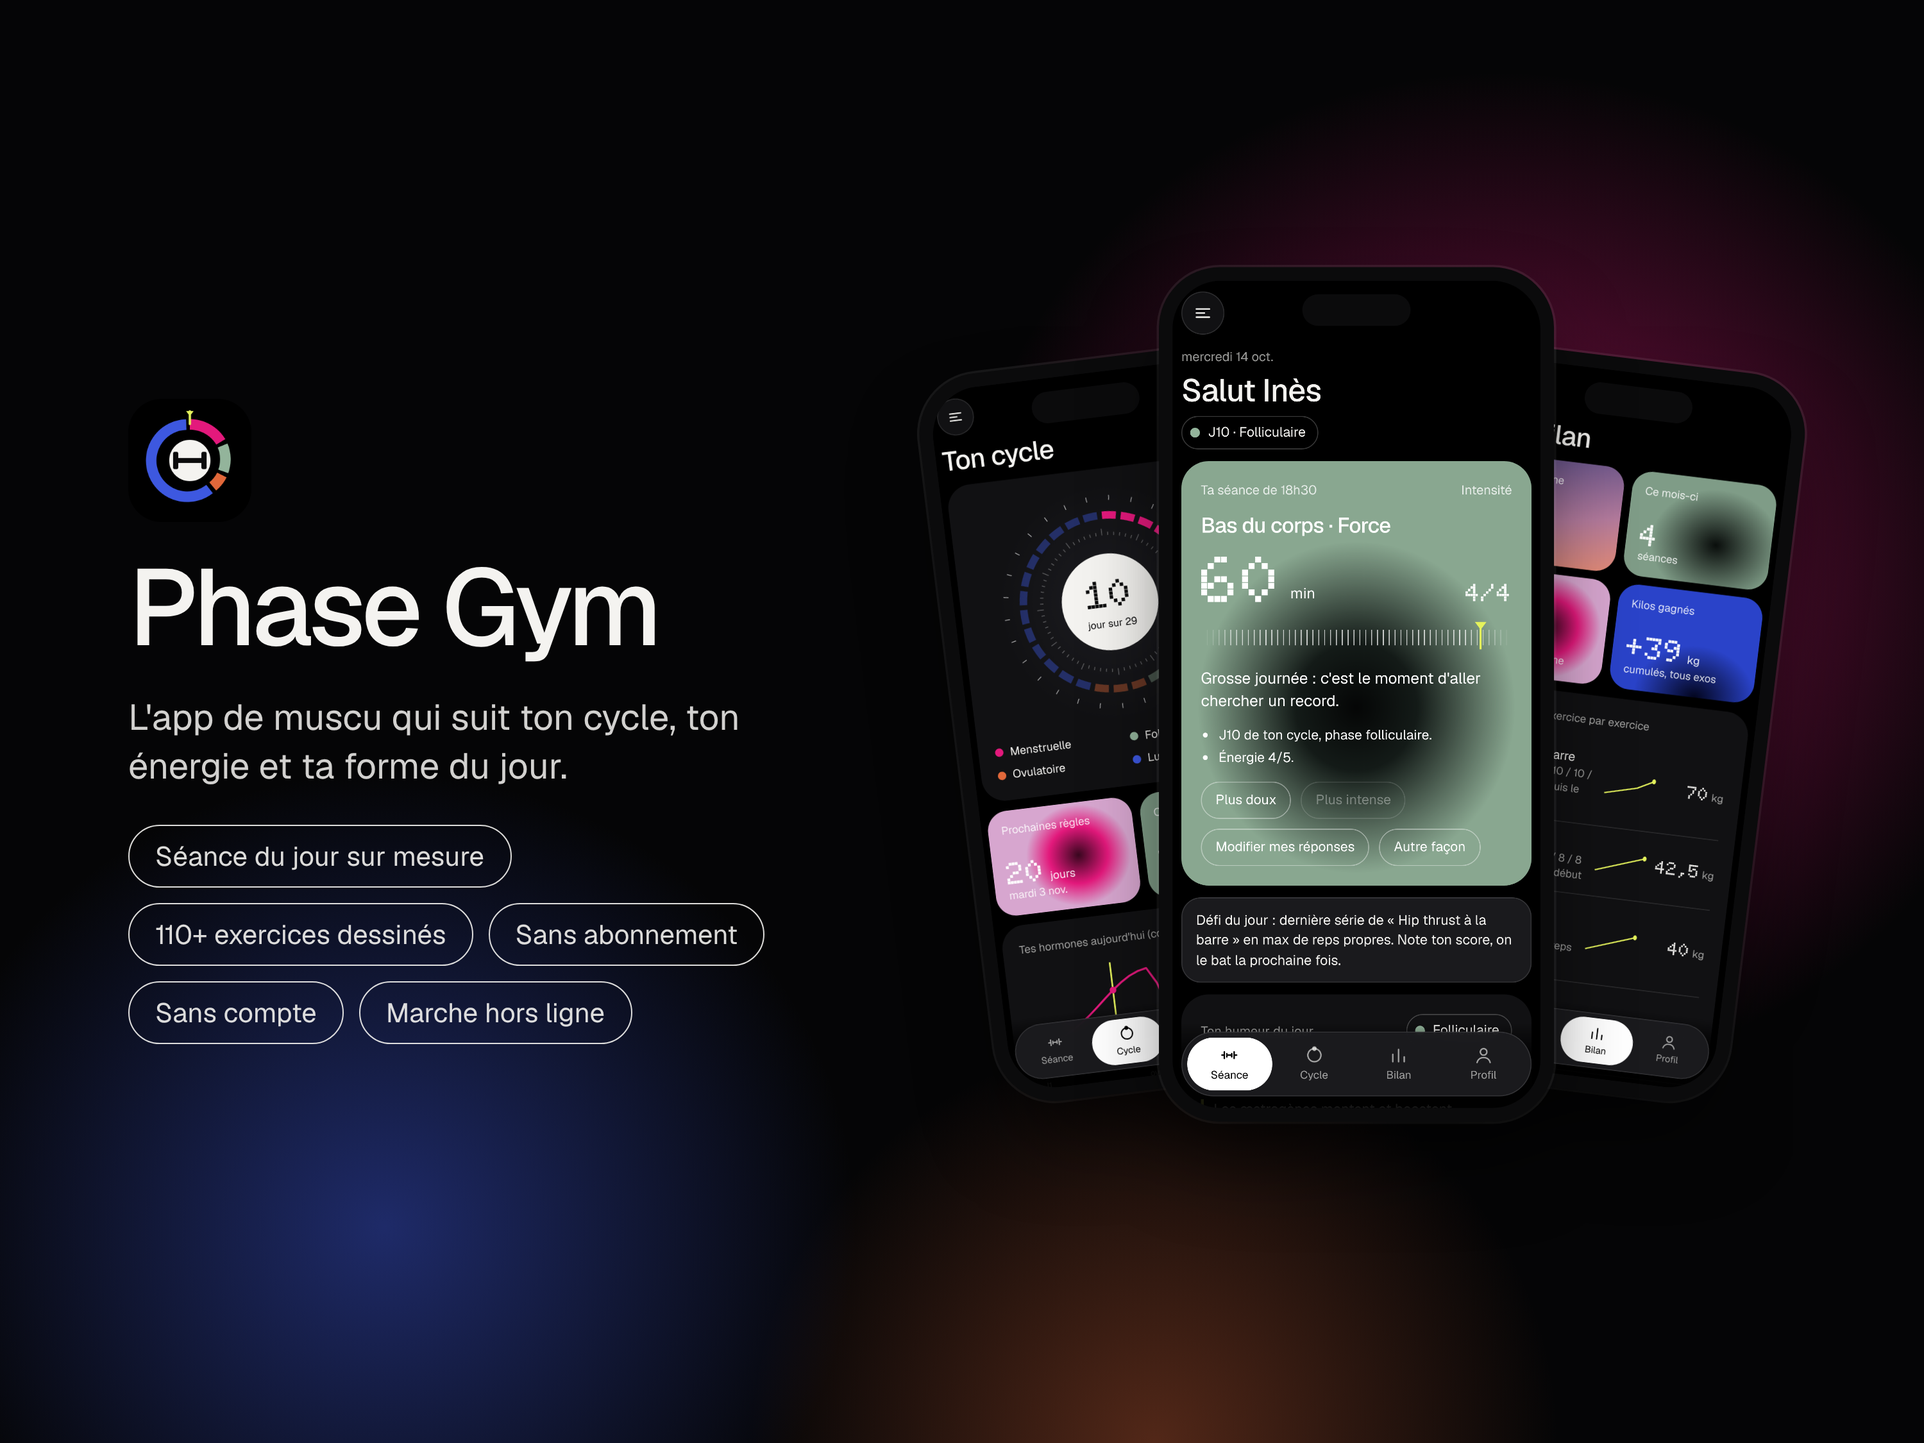
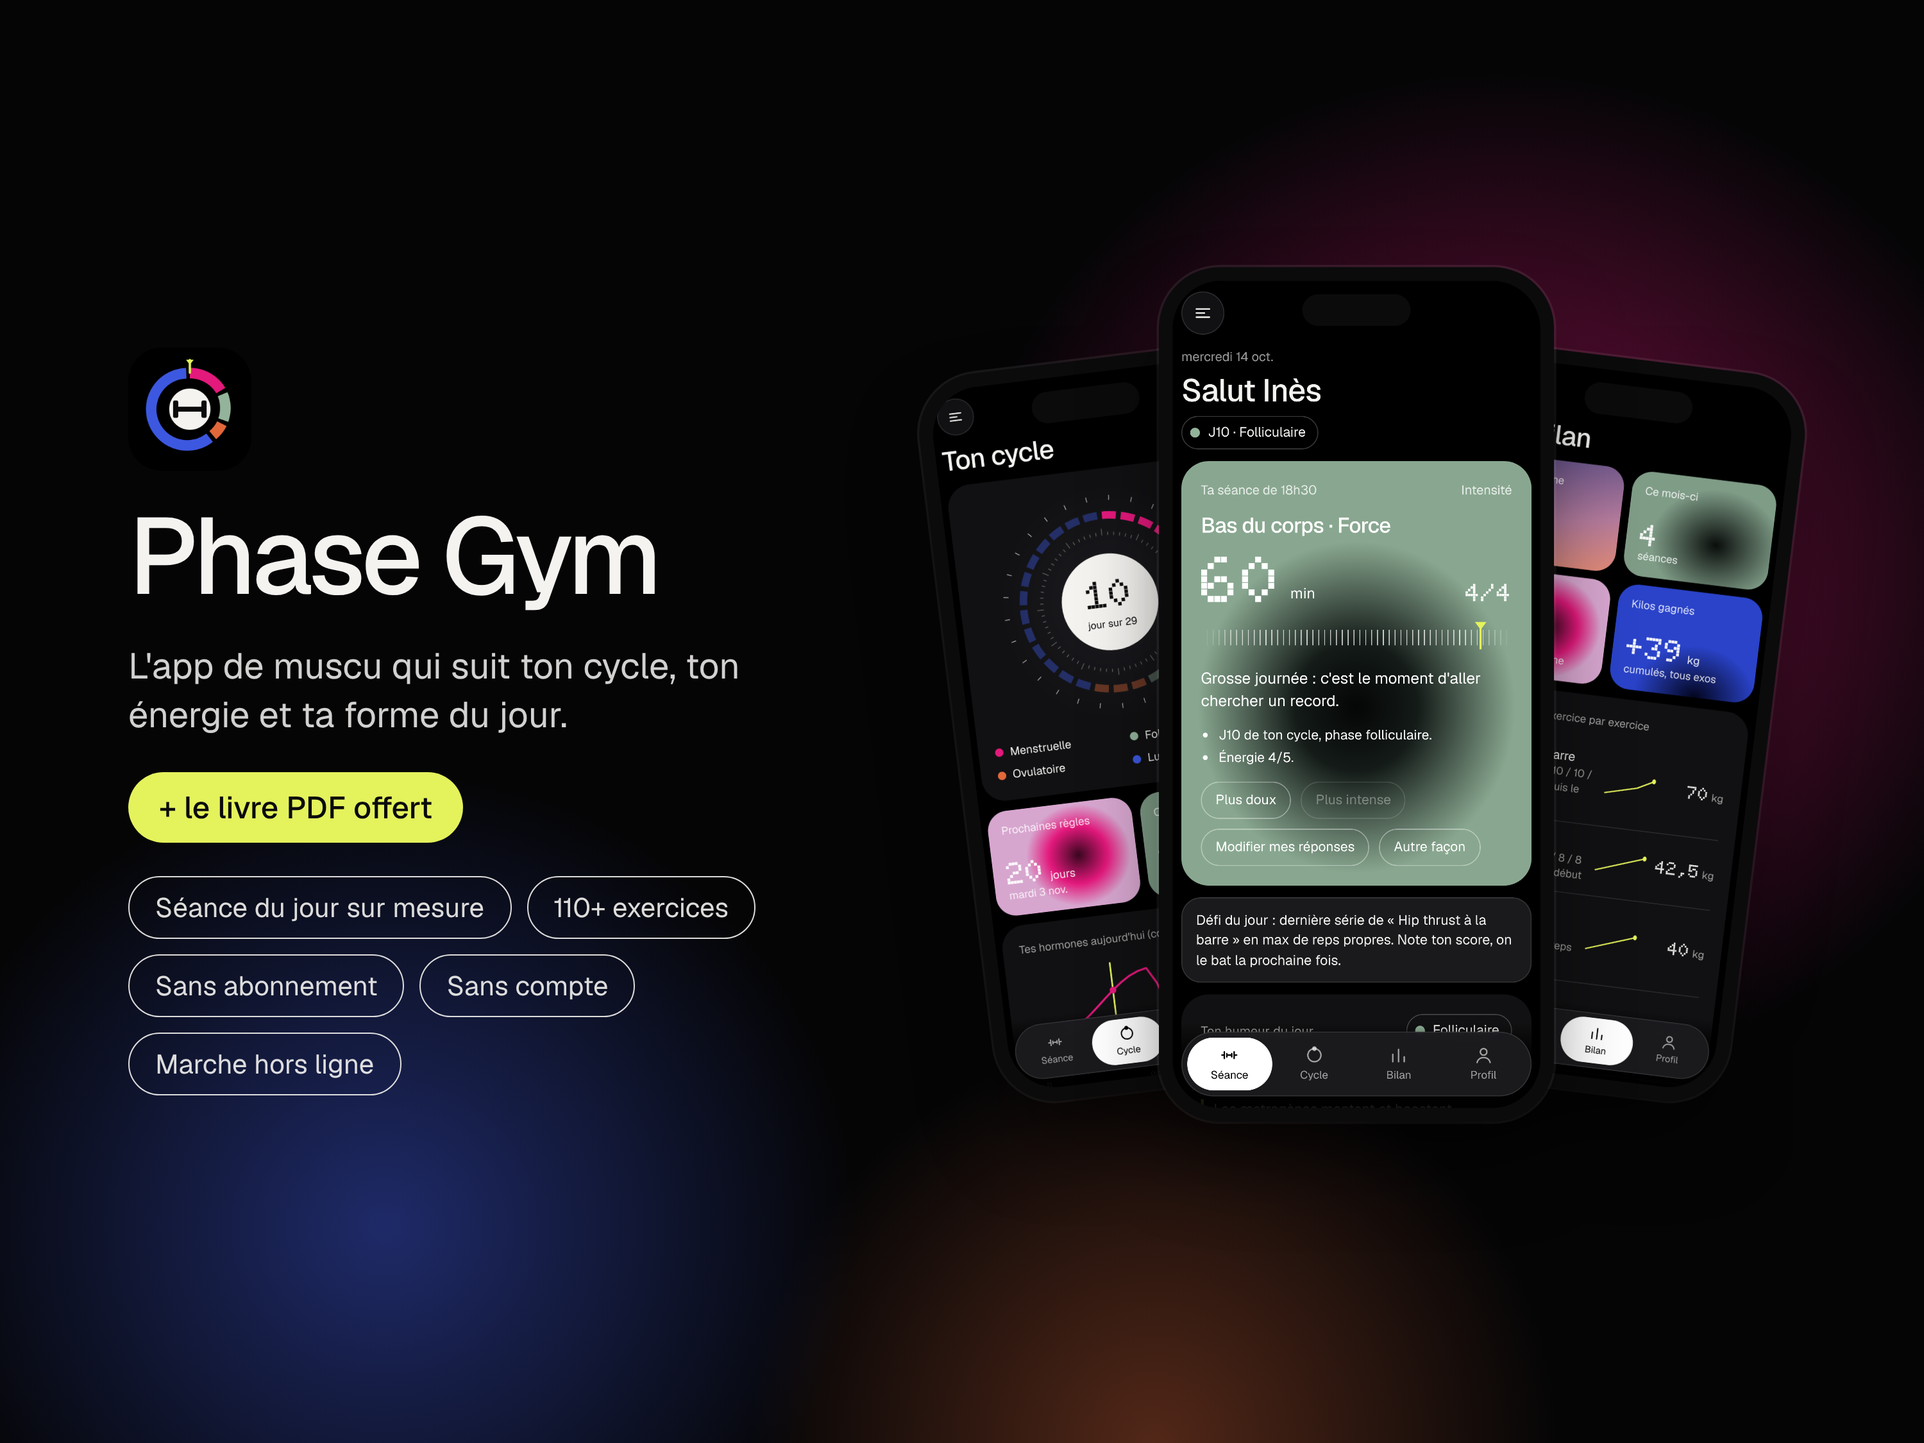
Phase Gym : annonce Etsy complète avec le livre offert
Fiche réécrite (boutique, politiques, titre, 2 fichiers, prix 12,90 € avec
promo de lancement, description, mots-clés, FAQ, messages), images refaites
avec les nouveaux dessins et une image pour le livre, logo et bannière de
la boutique.

Claude-Session: https://claude.ai/code/session_01Gm98Y9s8ifhqooa8DeYAiv

Changed region(s): [[0.062, 0.2489, 0.403, 0.7467]]

diff --git a/vente/fiche-etsy.md b/vente/fiche-etsy.md
@@ -1,67 +1,125 @@
-# Fiche Etsy : Phase Gym
+# Annonce Etsy : Phase Gym (app + livre offert)
 
-Tout ce qu'il faut copier-coller dans *Etsy › Gestionnaire de boutique › Annonces › Ajouter une annonce*.
+Tout ce qu'il faut copier-coller, dans l'ordre où Etsy le demande.
 
-## Les bases
+---
+
+## 1. La boutique (une seule fois)
 
 | Champ | À mettre |
 | --- | --- |
-| Type d'article | **Numérique** (fichiers téléchargeables) |
+| Nom de la boutique | **PhaseGymStudio** (autres idées si pris : *PhaseGymApp*, *BougeAvecTonCycle*, *PhaseGymFr*) |
+| Logo de la boutique | `images/boutique-logo.png` (500 × 500) |
+| Bannière | `images/boutique-banniere.png` (3360 × 840, « grande bannière ») |
+| Titre de la boutique (sous le nom) | `L'app de muscu qui suit ton cycle, et le guide des exercices` |
+| Langue, pays, devise | Français · France · Euro |
+
+**Annonce de la boutique** (Gestionnaire › Paramètres › Infos et apparence) :
+
+```
+Bienvenue ! Ici, des outils numériques pour s'entraîner avec son cycle, pas contre lui. Téléchargement immédiat, sans abonnement, mises à jour gratuites.
+```
+
+**À propos** (« Notre histoire ») :
+
+```
+Phase Gym est née d'une question simple : pourquoi certains jours la séance passe toute seule, et d'autres jours tout pèse une tonne ? Une grande partie de la réponse est dans le cycle.
+
+Phase Gym construit ta séance de salle selon ta phase, ton énergie, ton sommeil et ton humeur, t'explique ce qui se passe dans ton corps, et suit tes progrès. Tout reste sur ton téléphone : pas de compte, pas de pub, pas d'abonnement.
+
+Une question ? Écris-moi par la messagerie Etsy, je réponds vite.
+```
+
+**Politiques de la boutique** (produits numériques) :
+
+```
+Produits numériques : téléchargement immédiat après le paiement, rien n'est envoyé par la poste.
+Retours et échanges : pas de remboursement une fois les fichiers téléchargés, mais si quelque chose ne marche pas, écris-moi : je trouve une solution.
+Usage : personnel uniquement. Le lien et le code d'accès ne doivent pas être partagés, revendus ou publiés.
+Données : l'app ne collecte rien, tout reste sur ton téléphone.
+```
+
+---
+
+## 2. L'annonce
+
+### Photos (dans cet ordre)
+
+Dans `vente/images/` (3000 × 2250 px, format 4:3) :
+
+1. `01-couverture.png` : l'app et « + le livre PDF offert » (c'est la miniature : la plus importante)
+2. `02-pourquoi.png` : le cycle expliqué
+3. `03-seance.png` : la séance du jour
+4. `04-a-ta-facon.png` : construire ou tirer au sort
+5. `05-exercices.png` : les exercices dessinés
+6. `06-progres.png` : le bilan
+7. `07-livre.png` : le livre offert
+8. `08-comment.png` : comment ça marche après l'achat
+
+Etsy accepte 10 photos : tu peux ajouter `09-themes.png` (clair / sombre) et une courte vidéo d'écran de l'app (5 à 15 s), qui aide beaucoup.
+
+### Les bases
+
+| Champ | À mettre |
+| --- | --- |
 | Qui l'a fait ? | **Moi** |
-| Qu'est-ce que c'est ? | **Un produit fini** |
+| C'est quoi ? | **Un produit fini** |
 | Quand a-t-il été fabriqué ? | **2020 – 2026** |
-| Usage de l'IA | **Cocher** la case qui indique qu'une IA générative a été utilisée (le code de l'app a été écrit avec l'aide de Claude, et les illustrations en couleur des exercices ont été générées avec ChatGPT). Etsy retire les annonces non déclarées. |
-| Catégorie | Tape « planner » ou « agenda » et choisis la catégorie numérique proposée la plus proche (planners / agendas numériques). |
-| Fichier à joindre | `Phase-Gym-acces.pdf` (le PDF avec le lien et le code, envoyé à part, jamais dans le dépôt) |
-| Quantité | 999 (renouvellement automatique) |
-| Prix conseillé | **9,90 €** (et une promo de lancement à 6,90 € pour les premières ventes et les premiers avis). Regarde les prix des planners fitness numériques sur Etsy avant de fixer le tien. |
-| Retours | Fichier numérique : pas de retour, mais tu proposes ton aide par la messagerie (voir la description). |
+| IA générative | **Cocher** : le code de l'app a été écrit avec l'aide de Claude, et les illustrations des exercices ont été générées avec ChatGPT. Etsy retire les annonces non déclarées. |
+| Catégorie | Tape « planner » et choisis la catégorie numérique proposée (planners / agendas numériques) |
+| Type | **Numérique** |
 
-## Photos (dans cet ordre)
-
-Les images sont dans `vente/images/` (3000 × 2250 px, format 4:3 conseillé par Etsy) :
-
-1. `01-couverture.png`
-2. `02-pourquoi.png`
-3. `03-seance.png`
-4. `04-a-ta-facon.png`
-5. `05-exercices.png`
-6. `06-progres.png`
-7. `07-themes.png`
-8. `08-comment.png`
-
-Bonus qui marche bien sur Etsy : une courte vidéo (5 à 15 s) où tu fais défiler l'app sur ton téléphone (enregistrement d'écran).
-
-## Titre (134 caractères, Etsy accepte jusqu'à 140)
+### Titre (131 caractères, maximum 140)
 
 ```
-Phase Gym, app de muscu qui suit ton cycle | Planner fitness femme numérique | Programme salle de sport, suivi des séances et du cycle
+Phase Gym : app de muscu qui suit ton cycle + livre PDF offert | Planner fitness femme | Programme salle de sport et suivi du cycle
 ```
 
-## Les 13 mots-clés (20 caractères maximum chacun)
+### Fichiers numériques (2 fichiers)
+
+1. `Phase-Gym-acces.pdf` : le lien de l'app et le code d'accès
+2. `Phase-Gym-livre-exercices.pdf` : le livre « Bouge avec ton cycle » (33 pages)
+
+Ces deux PDF ne sont **pas** dans le dépôt GitHub (ils sont privés) : utilise ceux que je t'ai envoyés.
+
+### Prix
+
+| | |
+| --- | --- |
+| Prix de l'annonce | **12,90 €** |
+| Promo de lancement | **-30 %** pendant 3 semaines (≈ 9,03 €) : Gestionnaire › Marketing › Promotions |
+| Ensuite | 12,90 € ; après ~15 avis positifs, teste 14,90 € |
+| Ce qu'il te reste par vente | ≈ 11 € à 12,90 € (≈ 7,55 € pendant la promo), frais Etsy estimés, à vérifier sur ton relevé |
+| Quantité | 999, renouvellement automatique |
+
+### Les 13 mots-clés (20 caractères maximum chacun)
 
 ```
-app sport femme, planner fitness, cycle menstruel, programme muscu, cycle syncing, carnet musculation, salle de sport, planner numérique, fitness femme, entraînement femme, suivi séances, suivi cycle, cadeau sportive
+app sport femme, planner fitness, cycle menstruel, programme muscu, cycle syncing, carnet musculation, salle de sport, guide exercices pdf, fitness femme, entraînement femme, suivi séances, suivi cycle, cadeau sportive
 ```
 
-Ne mets **pas** de noms de salles (Basic-Fit, Fitness Park…) ni de marques dans le titre et les mots-clés : ce sont des marques déposées et Etsy retire ce genre d'annonce.
+**Matériaux** (facultatif) : `PDF, application web`
 
-## Description
+Pas de noms de salles (Basic-Fit, Fitness Park…) ni de marques dans le titre et les mots-clés : ce sont des marques déposées, Etsy retire ce genre d'annonce.
+
+### Description
 
 ```
-PHASE GYM : l'app de muscu qui suit ton cycle, ton énergie et ta forme du jour.
+PHASE GYM : l'app de muscu qui suit ton cycle, ton énergie et ta forme du jour. + Le livre « Bouge avec ton cycle » offert.
 
-Fini les programmes qui font comme si tu étais la même tous les jours. Phase Gym construit ta séance de salle chaque jour selon ta phase du cycle, ton sommeil, ton énergie, ton humeur et le temps que tu as. Et elle t'explique pourquoi tu te sens comme ça.
+Fini les programmes qui font comme si tu étais la même tous les jours. Phase Gym construit ta séance de salle selon ta phase du cycle, ton sommeil, ton énergie, ton humeur et le temps que tu as. Et elle t'explique pourquoi tu te sens comme ça.
 
 ✦ CE QUE TU REÇOIS
-Un PDF avec ton lien personnel et ton code d'accès. Tu ouvres le lien sur ton téléphone, tu l'ajoutes à l'écran d'accueil, et Phase Gym s'ouvre comme une vraie app. Aucun abonnement, aucun compte à créer, aucune pub.
+• Phase Gym, l'app : un PDF avec ton lien personnel et ton code d'accès. Tu l'ajoutes à l'écran d'accueil de ton téléphone et elle s'ouvre comme une vraie app.
+• Le livre « Bouge avec ton cycle » (PDF, 33 pages) : ton cycle expliqué, que faire selon ton humeur, 49 exercices illustrés pas à pas avec un code couleur.
+Aucun abonnement, aucun compte à créer, aucune pub.
 
 ✦ CHAQUE JOUR, TA SÉANCE
 • 10 petites questions (énergie, sommeil, humeur, stress, temps dispo…) et ta séance s'adapte, à ton cycle aussi
 • Ou construis-la toi-même : zones, durée, force / muscle / tonus / circuit, tes exercices
 • Ou tire-la au sort, et relance si un exo ne te dit rien
 • Les charges sont calculées pour toi et montent quand tu es prête
-• Minuteur de repos intégré, et un exercice qui ne te plaît pas est remplacé en un geste
+• Minuteur de repos intégré ; un exercice qui ne te plaît pas est remplacé en un geste
 
 ✦ TON CYCLE, EXPLIQUÉ
 • Ta phase du jour, tes prochaines règles, ton ovulation estimée
@@ -69,46 +127,72 @@ Un PDF avec ton lien personnel et ton code d'accès. Tu ouvres le lien sur ton t
 • « Pourquoi je me sens comme ça ? » : une explication simple chaque jour, selon ton humeur et ta phase
 • Ta contraception est prise en compte (pilule, implant, stérilet…)
 
-✦ PLUS DE 110 EXERCICES DESSINÉS
-Machines guidées, presse, hack squat, Smith machine, poulies, haltères, barres, kettlebells, tractions et dips assistés, box, médecine-ball… Tu coches ce que ta salle a vraiment, tu retires ce que tu n'aimes pas.
+✦ PLUS DE 110 EXERCICES ILLUSTRÉS
+Machines guidées, presse, poulies, Smith machine, haltères, barres, kettlebells, tractions et dips assistés, box, élastiques… Tu coches ce que ta salle a vraiment, tu retires ce que tu n'aimes pas.
 
 ✦ TES PROGRÈS
 Kilos gagnés, progression par exercice, régularité, effort ressenti, ton énergie selon ta phase, historique. Tu peux aussi noter une séance faite à ta façon.
 
-✦ À TON GOÛT
-Thème clair, sombre ou automatique, 4 couleurs d'accent. Ton profil se règle en 2 minutes à la première ouverture.
+✦ LE LIVRE OFFERT : « BOUGE AVEC TON CYCLE »
+• Chaque phase expliquée : hormones, ressenti, ce qu'on fait à la salle, une séance type
+• Que faire quand tu es à plat, à cran, triste, quand tu as des crampes ou trop chaud
+• 49 fiches d'exercices : muscles, exécution en 3 étapes, erreur à éviter
+• Un code couleur : chaque exercice indique s'il est idéal, à faire en douceur ou à éviter selon ta phase
+• Un tableau récap à garder sur ton téléphone à la salle
 
 ✦ BON À SAVOIR
 • Marche sur iPhone (Safari), Android (Chrome) et ordinateur
 • Tes données restent sur ton téléphone, rien n'est envoyé sur un serveur
 • Marche sans réseau, même au fond de la salle
-• Les mises à jour arrivent toutes seules, au même lien
+• Thème clair ou sombre, 4 couleurs au choix
+• Mises à jour gratuites, au même lien
 • En français
 
 ✦ COMMENT ÇA MARCHE
-1. Après l'achat : Etsy › Achats et avis › Télécharger les fichiers
-2. Ouvre le PDF : ton lien et ton code sont dedans
+1. Après l'achat : Etsy › Achats et avis › Télécharger les fichiers (depuis un navigateur)
+2. Ouvre « Phase-Gym-acces.pdf » : ton lien et ton code sont dedans
 3. Ouvre le lien dans Safari ou Chrome et ajoute l'app à l'écran d'accueil
 4. Entre ton code, réponds à quelques questions, c'est parti
+Tu peux essayer la démo avant d'acheter : écris-moi, je t'envoie le lien.
 
 Une question avant ou après l'achat ? Écris-moi par la messagerie Etsy, je réponds vite.
 
 ⚠ Produit numérique : rien n'est envoyé par la poste. Usage personnel : le lien et le code ne doivent pas être partagés ni revendus.
 Phase Gym donne des conseils généraux d'entraînement. Ce n'est ni un dispositif médical ni une méthode de contraception : les dates d'ovulation sont des estimations. En cas de douleurs ou de règles très douloureuses, parles-en à un·e médecin ou une sage-femme.
+Le code de l'app a été écrit avec l'aide d'une IA et les illustrations ont été générées par IA.
 ```
 
-## Message automatique après l'achat
+### FAQ (Gestionnaire › Paramètres › Infos et apparence › Questions fréquentes de la boutique)
 
-*Gestionnaire de boutique › Paramètres › Infos et apparence › Message aux acheteurs (produits numériques)* :
+| Question | Réponse |
+| --- | --- |
+| Est-ce un abonnement ? | Non : tu paies une fois et tu gardes l'app et le livre. Les mises à jour sont gratuites. |
+| Ça marche sur iPhone ? | Oui, dans Safari : tu l'ajoutes à l'écran d'accueil et elle s'ouvre comme une vraie app. Sur Android, avec Chrome. |
+| Faut-il créer un compte ? | Non. Tout reste sur ton téléphone. |
+| Ça marche avec ma salle ? | Oui, avec n'importe quelle salle : tu coches dans ton profil les machines qu'elle a vraiment. |
+| Et si je prends la pilule ? | L'app en tient compte : avec une contraception qui bloque l'ovulation, elle se base sur ton ressenti du jour plutôt que sur les phases. |
+| Je débute, c'est pour moi ? | Oui : ton niveau est demandé au départ, les charges sont estimées pour toi et chaque exercice est expliqué dans le livre. |
+
+---
+
+## 3. Juste après la publication
+
+**Message aux acheteurs pour les produits numériques** (Gestionnaire › Paramètres › Infos et apparence) :
 
 ```
 Merci pour ton achat ! 🌸
-Ton PDF est dans Etsy › Achats et avis › Télécharger les fichiers (depuis un navigateur : l'app Etsy n'ouvre pas toujours les PDF).
-Dedans : ton lien et ton code d'accès. Sur iPhone, ajoute d'abord l'app à l'écran d'accueil, puis ouvre-la depuis son icône et entre ton code.
+Tes 2 fichiers sont dans Etsy › Achats et avis › Télécharger les fichiers (depuis un navigateur : l'app Etsy n'ouvre pas toujours les PDF).
+• Phase-Gym-acces.pdf : ton lien et ton code d'accès. Sur iPhone, ajoute d'abord l'app à l'écran d'accueil, puis ouvre-la depuis son icône et entre ton code.
+• Phase-Gym-livre-exercices.pdf : ton livre « Bouge avec ton cycle ».
 Un souci ? Réponds simplement à ce message.
 ```
 
-## Réponses prêtes pour la messagerie
+1. Lance la promo de lancement (-30 %, 3 semaines).
+2. Demande à une amie d'acheter pour vérifier que les 2 PDF arrivent bien.
+3. Envoie-moi le lien de l'annonce : j'ajoute le bouton « Acheter l'app » dans la démo.
+4. Partage la démo (`https://zcabande-arch.github.io/D-clic-/phase/?demo`) et l'annonce : stories, TikTok, Pinterest (les 8 images en épingles).
+
+## 4. Réponses prêtes pour la messagerie
 
 **« Mon code ne marche pas »**
 > Vérifie qu'il n'y a pas d'espace en trop (les tirets et majuscules n'ont pas d'importance). Sur iPhone, entre-le dans l'app ouverte depuis l'icône de l'écran d'accueil, pas dans Safari. Si ça bloque encore, envoie-moi une capture d'écran.
@@ -116,5 +200,8 @@ Un souci ? Réponds simplement à ce message.
 **« J'ai changé de téléphone »**
 > Sur l'ancien : Réglages (en haut à gauche) › Télécharger une sauvegarde. Sur le nouveau : ouvre ton lien, entre ton code, puis « J'ai une sauvegarde à restaurer ».
 
-**« Est-ce que ça marche sans Basic-Fit ? »**
-> Oui, avec n'importe quelle salle : tu coches dans ton profil les machines que ta salle a vraiment.
+**« Je n'arrive pas à télécharger les fichiers »**
+> Ouvre Etsy dans Safari ou Chrome (pas dans l'app Etsy), connecte-toi, puis Achats et avis › Télécharger les fichiers.
+
+**« Je peux voir la démo avant ? »**
+> Bien sûr : https://zcabande-arch.github.io/D-clic-/phase/?demo (données d'exemple, l'app complète s'ouvre avec le code reçu après l'achat).

diff --git a/vente/LISEZMOI.md b/vente/LISEZMOI.md
@@ -5,7 +5,7 @@ Ce dossier contient tout ce qu'il faut pour vendre l'app.
 | Élément | Où |
 | --- | --- |
 | Fiche Etsy (titre, description, mots-clés, prix, messages) | [`fiche-etsy.md`](fiche-etsy.md) |
-| Images de l'annonce (3000 × 2250) | [`images/`](images) |
+| Images de l'annonce (3000 × 2250), logo et bannière de la boutique | [`images/`](images) |
 | PDF livré aux acheteuses (lien + code) | `prive/Phase-Gym-acces.pdf`, **jamais dans Git** (ignoré par `.gitignore`) |
 | Livre PDF « Bouge avec ton cycle » (49 exercices, code couleur cycle et humeurs) | `prive/Phase-Gym-livre-exercices.pdf`, refait avec `node vente/outils/livre.mjs http://localhost:8766/phase/ vente/prive/Phase-Gym-livre-exercices.pdf` (contenu dans `outils/livre-donnees.mjs`) |
 | Outils pour refaire tout ça | [`outils/`](outils) |
